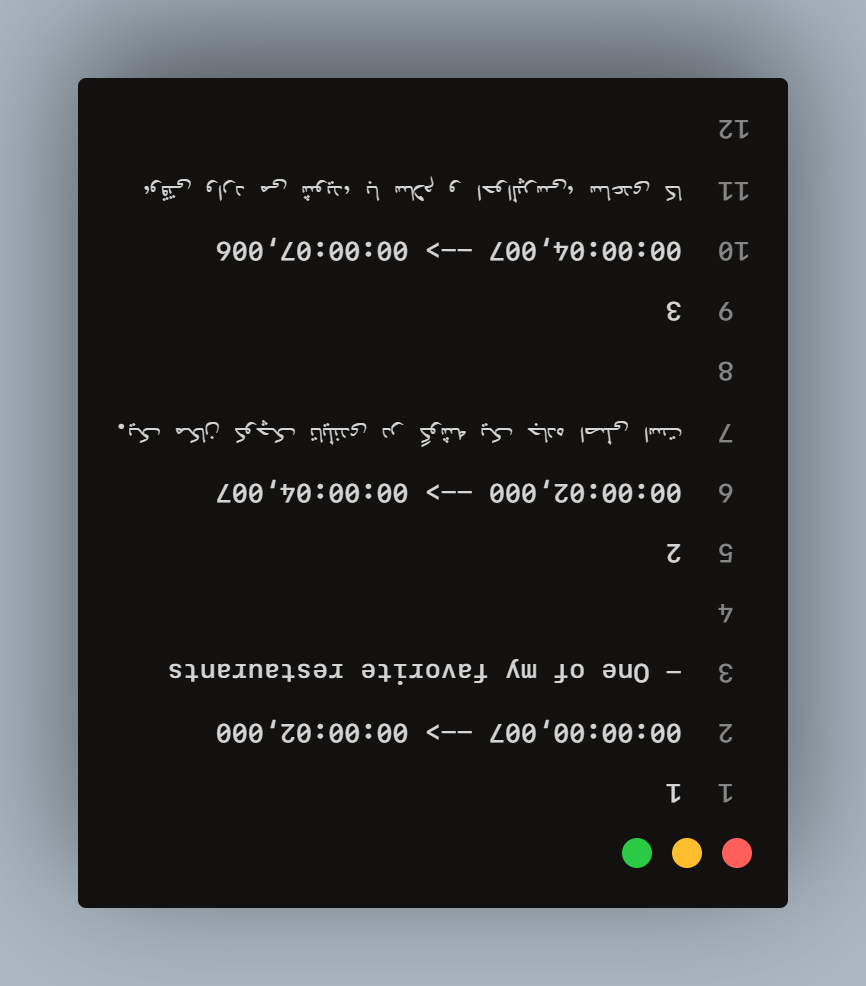
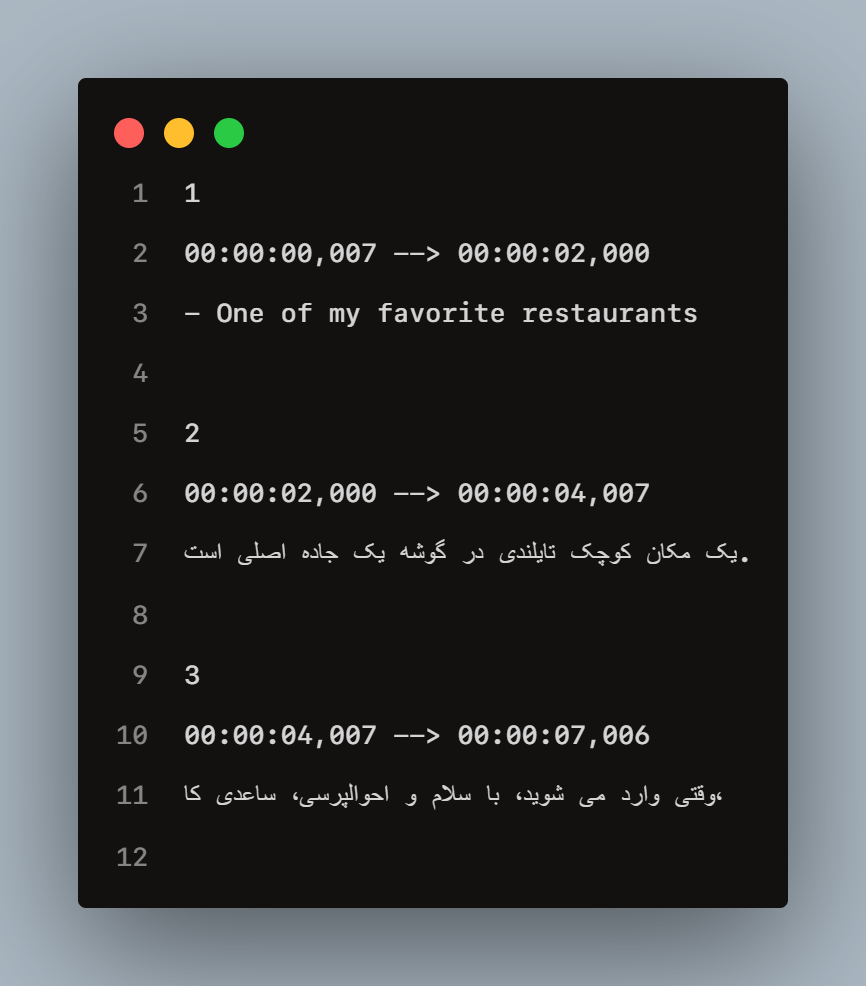
&Command

diff --git a/25__Subtitle_translator/README.md b/25__Subtitle_translator/README.md
@@ -1,5 +1,9 @@
 # SubTitle Translator 
 
 
-## ![image1](src/pic1.png)
-## ![image1](src/pic2.png)
+<div align="center">
+  <kbd>
+    <img src="src/pic2.png" width = 400/>
+    <img src="src/pic1.png" width = 400/>
+  </kbd>
+</div>
